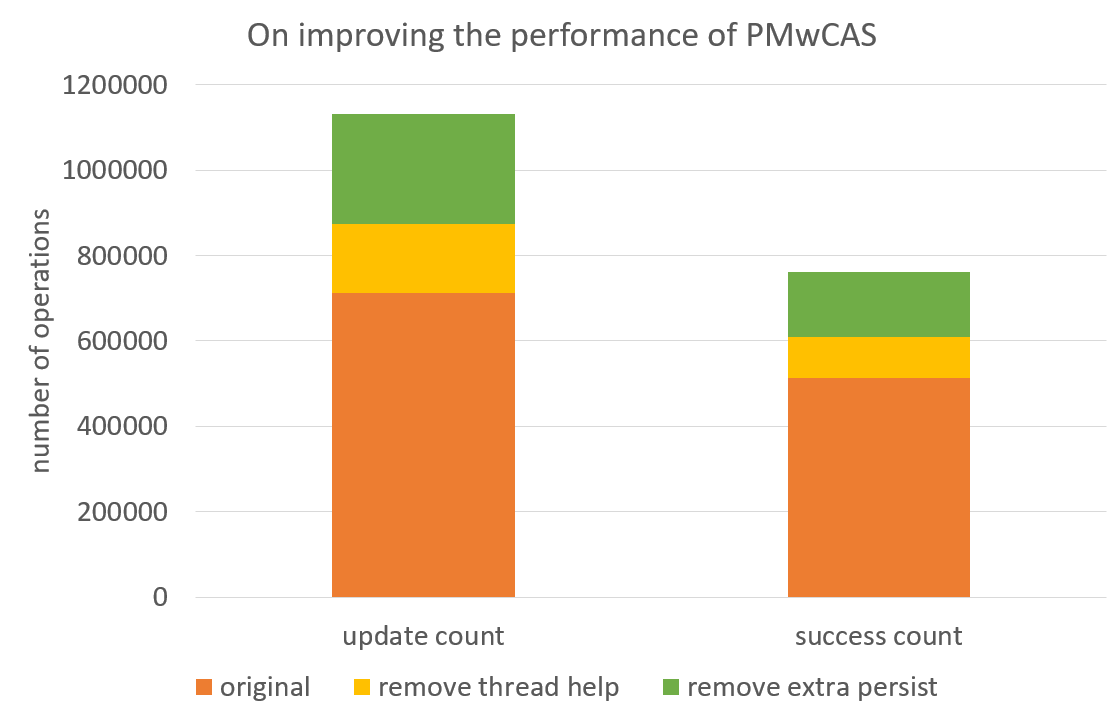
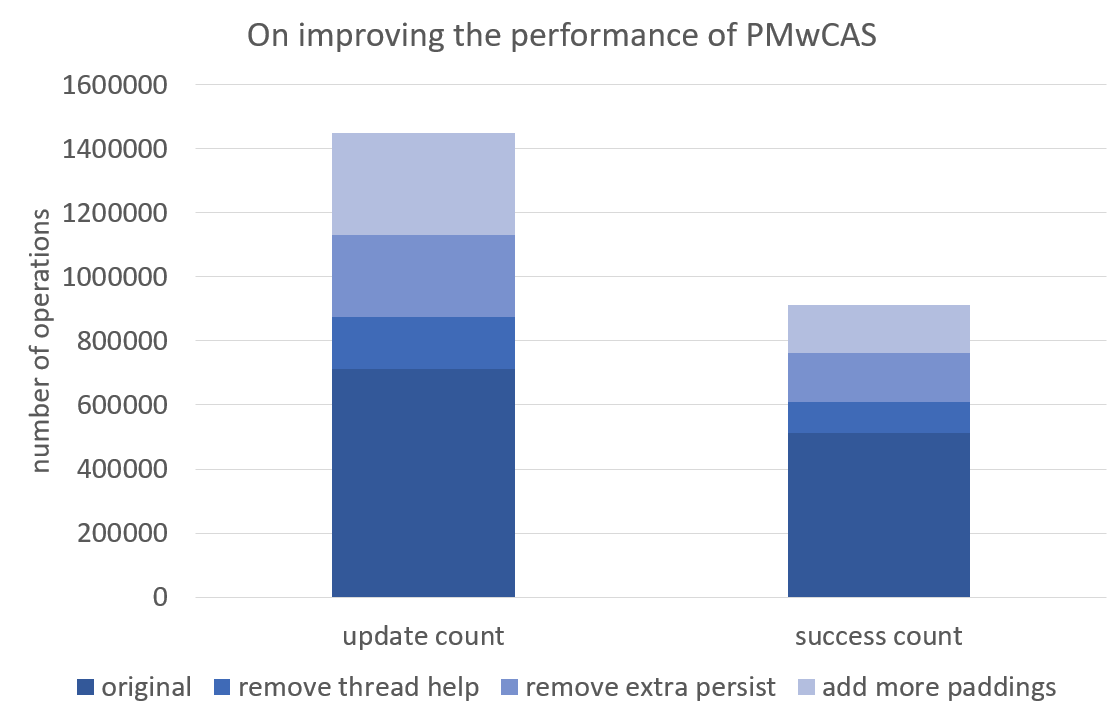
update pmwcas

diff --git a/content/posts/pmwcas-update.md b/content/posts/pmwcas-update.md
@@ -1,8 +1,10 @@
 ---
 title: "Recent updates on PMwCAS"
-date: 2019-11-20T18:00:21-08:00
+date: 2019-12-02T18:00:21-08:00
 draft: false 
 ---
+
+Update 12-02: Add more performance data
 
 I've been working on PMwCAS for a few days, here are the recent updates, todo list, as well as my motivations.
 
@@ -22,7 +24,7 @@ Some recent updates on the PMwCAS library:
 
 - Added a CI to automatic track the building and testing, several bugs are also fixed along with this process.
 
-- Improved the performance by up to 50%.
+- Improved the performance by up to 100%.
 
 
 ### On improving the performance of PMwCAS
@@ -32,6 +34,7 @@ There're two main changes that impact the performance:
 - Disallowed working threads to help each other. For any thread encountering a in-progress operations, it should keep retrying rather than helping the other thread.
 
 - Removed the unnecessary address flushes after installing the descriptors. (Let me know if I'm not correct!) During recovery, the library can identify the in-progress descriptors by looking for **dirty undecided status**.
+- Add more aggressive paddings when running on persistent memory.
 
 
 Benchmark details:
@@ -46,6 +49,7 @@ Benchmark details:
 | original             | 711371    | 512794        |
 | remove thread help   | 873892    | 609362     |
 | remove extra persist | 1131266   | 762112     |
+| add more padding     | 1450235   | 912708     |
 
 ![](/img/pmwcas.png)
 
